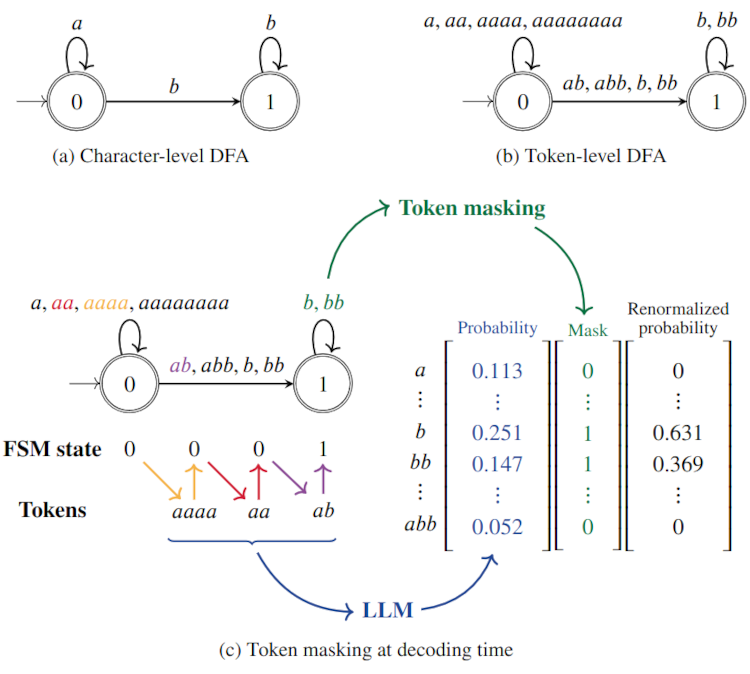
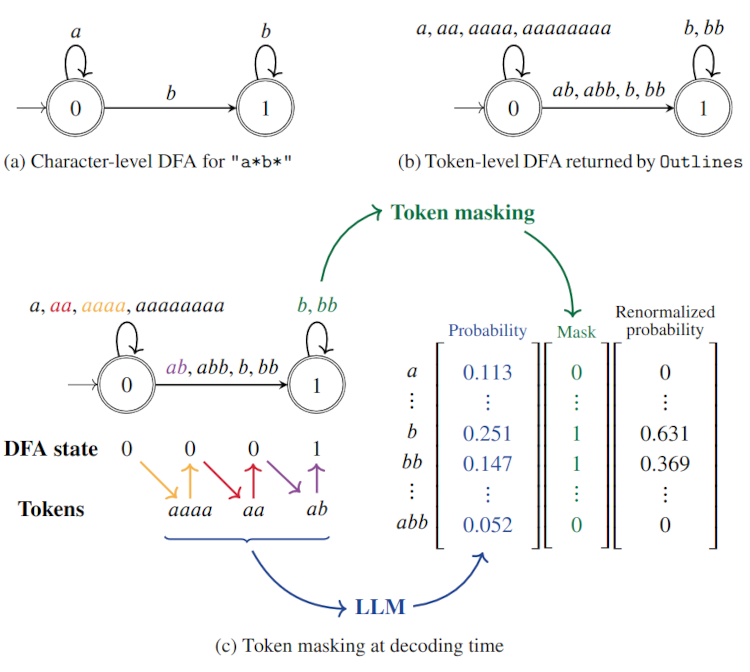
Two minor corrections

diff --git a/journal/llm-decoding-with-regex-constraints.html b/journal/llm-decoding-with-regex-constraints.html
@@ -148,11 +148,13 @@
 
 <h1 id="deterministic-finite-automata-and-constrained-decoding">Deterministic Finite Automata and Constrained Decoding</h1>
 
+<p>I now briefly explain the principle of <script type="math/tex">\texttt{Outlines}</script>. Please read the original paper <a class="citation" href="#willard2023efficient">(Willard &amp; Louf, 2023)</a> or this <a href="https://blog.dottxt.co/coalescence.html">blog post</a> for a more comprehensive overview.</p>
+
 <p>As a <strong>preprocessing step</strong>, <script type="math/tex">\texttt{Outlines}</script> converts a <strong>character-level deterministic finite automaton (DFA)</strong> testing whether a string matches a regex (cf. Figure 1a) into a <strong>token-level DFA testing whether a token sequence is decoded in a string matching the regex</strong> (cf. Figure 1b):</p>
 <ul>
-  <li>the states, including the start state and the accept states, remain the same;</li>
-  <li>the alphabet of the token-level DFA is the tokenizer’s vocabulary;</li>
-  <li>the transition function of the token-level DFA is the extended transition function of the character-level DFA restricted to the tokenizer’s vocabulary. For example with the example of Figure 1b, there is an <script type="math/tex">\texttt{abb}</script> transition from <script type="math/tex">\texttt{0}</script> to <script type="math/tex">\texttt{1}</script> because if we start from <script type="math/tex">\texttt{0}</script> on the character-level DFA and successively see <script type="math/tex">\texttt{a}</script>, <script type="math/tex">\texttt{b}</script> and <script type="math/tex">\texttt{b}</script>, we’ll end up in state <script type="math/tex">\texttt{1}</script>.</li>
+  <li>the <strong>states</strong>, including the start state and the accept states, remain the same;</li>
+  <li>the <strong>alphabet</strong> of the token-level DFA is the tokenizer’s vocabulary;</li>
+  <li>the <strong>transition function</strong> of the token-level DFA is the extended transition function of the character-level DFA restricted to the tokenizer’s vocabulary. For example with the example of Figure 1b, there is an <script type="math/tex">\texttt{abb}</script> transition from <script type="math/tex">\texttt{0}</script> to <script type="math/tex">\texttt{1}</script> because if we start from <script type="math/tex">\texttt{0}</script> on the character-level DFA and successively see <script type="math/tex">\texttt{a}</script>, <script type="math/tex">\texttt{b}</script> and <script type="math/tex">\texttt{b}</script>, we’ll end up in state <script type="math/tex">\texttt{1}</script>.</li>
 </ul>
 
 <p><img src="https://vivien000.github.io/blog/assets/img/directmerge-outlines.png" alt="`&quot;a*b*&quot;` DFA" /></p>
